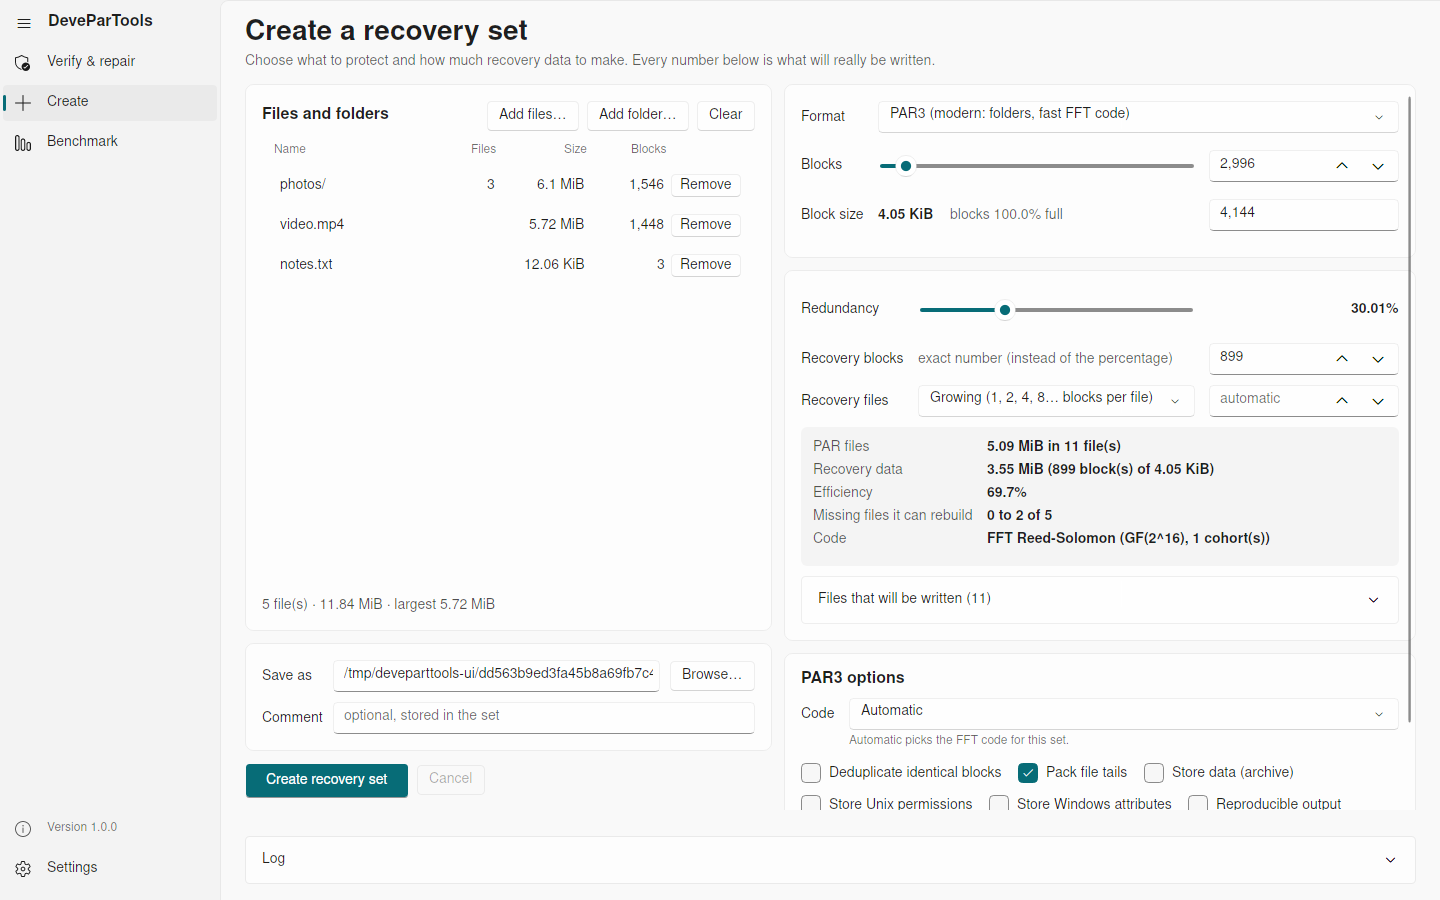
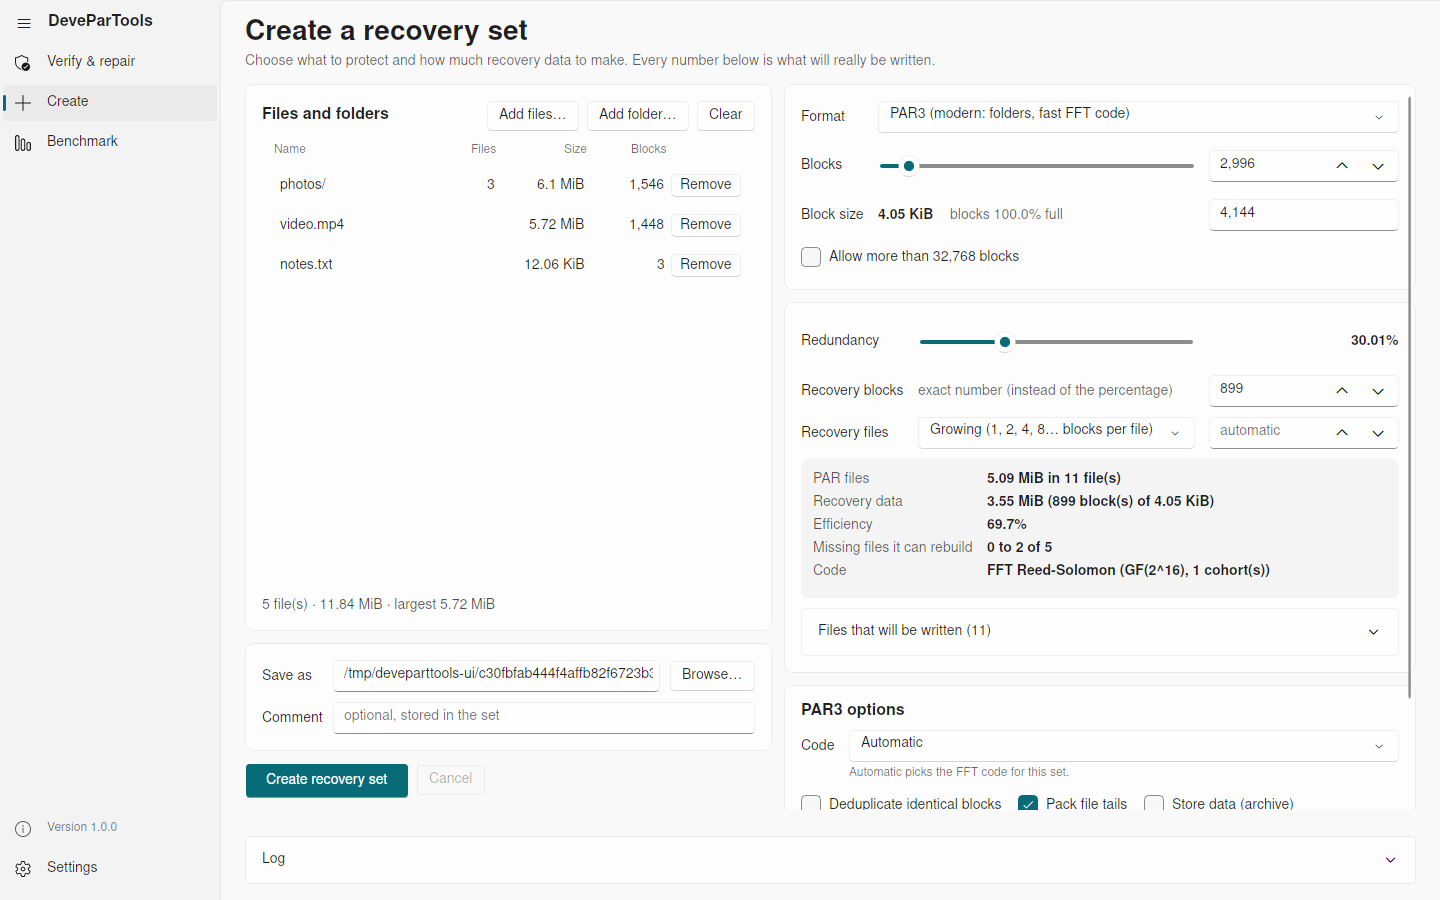
App: 32,768-block limit with an opt-in and its drawbacks; tooltips on every control; small windows scroll
- Create: the block slider and count stop at 32,768 blocks (one FFT group: any lost blocks can be rebuilt with as
  many recovery blocks). PAR3 'Allow more than 32,768 blocks' goes further and shows an orange explanation of the
  cost (per-group repair, checksums per block in every PAR file, slower verify/repair).
- Tooltips on every button, box, option, expander, legend chip (what each block state means) and summary card.
- Create and Verify have a minimum size (980 × 720/700) and scroll below it instead of squeezing their cards into
  each other; above it they still fill the window.
- Plan: the overhead warning formats its percentage like the rest of the app.

diff --git a/DeveParTools.App/ViewModels/CreateViewModel.cs b/DeveParTools.App/ViewModels/CreateViewModel.cs
@@ -218,8 +218,33 @@ public sealed partial class CreateViewModel : OperationViewModel
         set => SetBlockTarget((int)Math.Round(Math.Pow(2, value)));
     }
 
-    /// <summary>The slider's end: log2 of the most blocks the format allows for these files.</summary>
-    public double BlockSliderMaximum => Math.Log2(Math.Max(2, Plan?.MaxInputBlocks ?? 2));
+    /// <summary>
+    /// The block count up to which a set keeps the full repair guarantee: the FFT code handles up to 32,768 input blocks
+    /// in one group; above that it interleaves groups (cohorts) that each repair only their own blocks.
+    /// </summary>
+    public const int SafeBlockLimit = 32768;
+
+    /// <summary>Lets the block slider and count go past <see cref="SafeBlockLimit"/> (PAR3).</summary>
+    [ObservableProperty]
+    [NotifyPropertyChangedFor(nameof(BlockSliderMaximum), nameof(ManyBlocksWarning))]
+    private bool _allowManyBlocks;
+
+    partial void OnAllowManyBlocksChanged(bool value)
+    {
+        if (!value && _blockTarget > SafeBlockLimit)
+        {
+            SetBlockTarget(SafeBlockLimit);
+        }
+    }
+
+    /// <summary>The option is offered when the files could be cut into more than 32,768 blocks (PAR3 only; PAR2's maximum is 32,768).</summary>
+    public bool ShowManyBlocksOption => IsPar3 && Plan is { MaxInputBlocks: > SafeBlockLimit };
+
+    /// <summary>Shown (in orange) while the set has more than 32,768 blocks.</summary>
+    public bool ManyBlocksWarning => IsPar3 && Plan is { InputBlocks: > SafeBlockLimit };
+
+    /// <summary>The slider's end: log2 of the most blocks allowed (32,768 unless more are allowed, and the format's maximum).</summary>
+    public double BlockSliderMaximum => Math.Log2(Math.Max(2, Math.Min(Plan?.MaxInputBlocks ?? 2, AllowManyBlocks ? long.MaxValue : SafeBlockLimit)));
 
     /// <summary>The real number of input blocks; typing a number makes it the target.</summary>
     public decimal? BlockCount
@@ -279,7 +304,7 @@ public sealed partial class CreateViewModel : OperationViewModel
 
     private void SetBlockTarget(int target)
     {
-        _blockTarget = Math.Max(1, target);
+        _blockTarget = Math.Clamp(target, 1, AllowManyBlocks || !IsPar3 ? int.MaxValue : SafeBlockLimit);
         _explicitBlockSize = null;
         Replan();
     }
@@ -451,7 +476,7 @@ public sealed partial class CreateViewModel : OperationViewModel
         {
             nameof(BlockSlider), nameof(BlockSliderMaximum), nameof(BlockCount), nameof(BlockSize), nameof(Redundancy), nameof(RecoveryCount),
             nameof(HasInputs), nameof(InputSummary), nameof(BlockSizeText), nameof(RedundancyText), nameof(BlockFillText), nameof(RecoveryDataText),
-            nameof(RebuildText), nameof(CodeText), nameof(CodeChoiceText), nameof(RecoveryCountMaximum),
+            nameof(RebuildText), nameof(CodeText), nameof(CodeChoiceText), nameof(RecoveryCountMaximum), nameof(ShowManyBlocksOption), nameof(ManyBlocksWarning),
         })
         {
             OnPropertyChanged(name);

diff --git a/DeveParTools.App.Tests/Program.cs b/DeveParTools.App.Tests/Program.cs
@@ -258,6 +258,19 @@ Check(shell.Create.RebuildText.Contains(" of 2", StringComparison.Ordinal) && sh
     && shell.Create.RecoveryFiles[0].Blocks == "index", $"rebuild {shell.Create.RebuildText}, PAR files {shell.Create.ParFilesText}, efficiency {shell.Create.EfficiencyText}");
 shell.Create.FormatIndex = 2;
 Check(!shell.Create.HasBlockChoice && shell.Create.BlockCount == 2, "PAR1: one block per file, no block choice");
+
+// PAR3: up to 32,768 blocks unless more are allowed (with a warning about what that costs).
+shell.Create.FormatIndex = 0;
+Await(shell.Create.Planned);
+shell.Create.BlockSlider = 20;
+Check(shell.Create.ShowManyBlocksOption && shell.Create.BlockCount <= 32768 && !shell.Create.ManyBlocksWarning && Math.Abs(shell.Create.BlockSliderMaximum - 15) < 1e-9,
+    $"the block slider stops at 32,768 blocks: {shell.Create.BlockCount}");
+shell.Create.AllowManyBlocks = true;
+shell.Create.BlockSlider = 16;
+Check(shell.Create.BlockCount > 32768 && shell.Create.ManyBlocksWarning, $"allowing more blocks goes past it, with the warning: {shell.Create.BlockCount}");
+Save(window, output, "create-many-blocks");
+shell.Create.AllowManyBlocks = false;
+Check(shell.Create.BlockCount <= 32768, "turning it off goes back to at most 32,768");
 shell.Create.FormatIndex = 1;
 
 shell.Page = AppPage.Benchmark;
@@ -302,6 +315,16 @@ Save(window, output, "benchmark");
     LinuxFileAssociations.SetEntry(fresh, "Default Applications", "a/b", "y.desktop");
     Check(fresh.SequenceEqual(["[Default Applications]", "a/b=y.desktop"]) && LinuxFileAssociations.GetEntry(fresh, "Other", "a/b") == null, "mimeapps.list editing: add, replace, missing section");
 }
+// A small window: the pages scroll instead of squeezing their cards into each other.
+window.Width = 900;
+window.Height = 620;
+shell.Page = AppPage.Create;
+Save(window, output, "create-small");
+shell.Page = AppPage.Verify;
+Save(window, output, "verify-small");
+window.Width = 1440;
+window.Height = 900;
+
 shell.Page = AppPage.Settings;
 Save(window, output, "settings");
 if (OperatingSystem.IsWindows())

diff --git a/DeveParTools.App/ViewModels/OperationViewModel.cs b/DeveParTools.App/ViewModels/OperationViewModel.cs
@@ -38,6 +38,20 @@ public sealed partial class LegendItem : ObservableObject
         State = state;
         Name = BlockGrid.Display(state);
         BrushKey = BlockGrid.ResourceKey(state);
+        Description = state switch
+        {
+            BlockState.Found => "The block is where it belongs, and its checksum is right.",
+            BlockState.FoundMoved => "The block is in the right file, but at another position (bytes were inserted or removed before it). Repair puts it back in place.",
+            BlockState.FoundElsewhere => "The block was found in another file: a renamed copy, an extra file you added, or another file of the set. Repair copies it into place.",
+            BlockState.FoundStored => "Not in the file, but stored in the PAR files themselves (the set was made with Store data). Repair copies it back; no recovery blocks are needed.",
+            BlockState.Damaged => "The block's position exists, but its contents are wrong.",
+            BlockState.Missing => "The block was not found anywhere.",
+            BlockState.Recoverable => "Missing or damaged, but there are enough recovery blocks to rebuild it.",
+            BlockState.Repairing => "Being rebuilt right now.",
+            BlockState.Repaired => "Rebuilt from the recovery blocks and checked.",
+            BlockState.Unrecoverable => "Missing or damaged, and there are not enough recovery blocks to rebuild it.",
+            _ => "Read and processed.",
+        } + " Click to hide or show these blocks.";
         _changed = changed;
     }
 
@@ -48,6 +62,9 @@ public sealed partial class LegendItem : ObservableObject
     public string Name { get; }
 
     public string BrushKey { get; }
+
+    /// <summary>What the state means (the chip's tooltip).</summary>
+    public string Description { get; }
 
     [ObservableProperty]
     [NotifyPropertyChangedFor(nameof(HasCount))]

diff --git a/DeveParTools.App/Controls/Converters.cs b/DeveParTools.App/Controls/Converters.cs
@@ -65,3 +65,23 @@ public sealed class LessThanConverter(double limit) : IValueConverter
 
     public object? ConvertBack(object? value, Type targetType, object? parameter, CultureInfo culture) => throw new NotSupportedException();
 }
+
+/// <summary>
+/// "The visible size, but at least a minimum": for page content inside a scroll viewer, so it fills the window and
+/// scrolls instead of squeezing when the window is small. Parameter "minimum|margin": 1000|48 turns a viewport of
+/// 1,400 into 1,352 (the content's margins taken off) and one of 800 into 1,000.
+/// </summary>
+public sealed class AtLeastConverter : IValueConverter
+{
+    public static readonly AtLeastConverter Instance = new();
+
+    public object? Convert(object? value, Type targetType, object? parameter, CultureInfo culture)
+    {
+        var parts = (parameter as string ?? "0|0").Split('|');
+        double minimum = double.Parse(parts[0], CultureInfo.InvariantCulture);
+        double margin = parts.Length > 1 ? double.Parse(parts[1], CultureInfo.InvariantCulture) : 0;
+        return value is double size && size > 0 ? Math.Max(minimum, size - margin) : minimum;
+    }
+
+    public object? ConvertBack(object? value, Type targetType, object? parameter, CultureInfo culture) => throw new NotSupportedException();
+}

diff --git a/DeveParTools/ParCreatePlan.cs b/DeveParTools/ParCreatePlan.cs
@@ -210,7 +210,7 @@ public static partial class ParClient
         {
             var sized = Copy(plan, PlanFileSizes(exact, plan.Format), plan.Warnings);
             return sized.Efficiency < 0.5 && sized.RecoveryBlocks > 0
-                ? Copy(sized, sized.OutputFiles, [.. plan.Warnings, $"Only {sized.Efficiency:P0} of what is written is recovery data for your files. The rest is overhead: "
+                ? Copy(sized, sized.OutputFiles, [.. plan.Warnings, $"Only {sized.Efficiency * 100:0.#}% of what is written is recovery data for your files. The rest is overhead: "
                     + "partly empty blocks, a checksum per block, and copies of the file list and checksums in every recovery file. Fewer, larger blocks lower it."])
                 : sized;
         }

diff --git a/README.md b/README.md
@@ -99,6 +99,20 @@ trees, is much faster for large sets thanks to the FFT code, and can store permi
 first block number, the base folder, whether to include subfolders, and for PAR3 the maximum number of recovery
 blocks of an FFT set, the interleave and the Cauchy coefficients.
 
+**Progress.** Every operation lists all its steps before it starts: each with its own bar and percentage, its
+estimated share of the work, and a tooltip saying what it does (for example that the recovery files are created at
+full size when encoding starts and filled in during it). A total bar shows the percentage, the time left and the
+time spent. Verify lists the files as soon as they are being checked, with how much of each is checked and how many
+of its blocks are bad; files are checked in parallel. The block grid's zoom starts at "fit", which follows the window
+size.
+
+**Blocks.** The block slider stops at 32,768 blocks: up to there any lost blocks can be rebuilt as long as there are
+as many recovery blocks. For PAR3, "Allow more than 32,768 blocks" goes further and explains the cost: the FFT code
+then repairs per interleaved group, every block adds checksums to every PAR file, and verify and repair take longer.
+Creating a set over an earlier one with the same name asks first and removes the old files, so they are not mixed up.
+
+Every option and button has a tooltip.
+
 **More options** on the Verify page sets the folder that holds the protected files, and the details of adding
 recovery data: an exact count, the first block number, the number of files and their name. An archive with recovery
 data inside gets a **Remove recovery data** button, which restores its original bytes.
